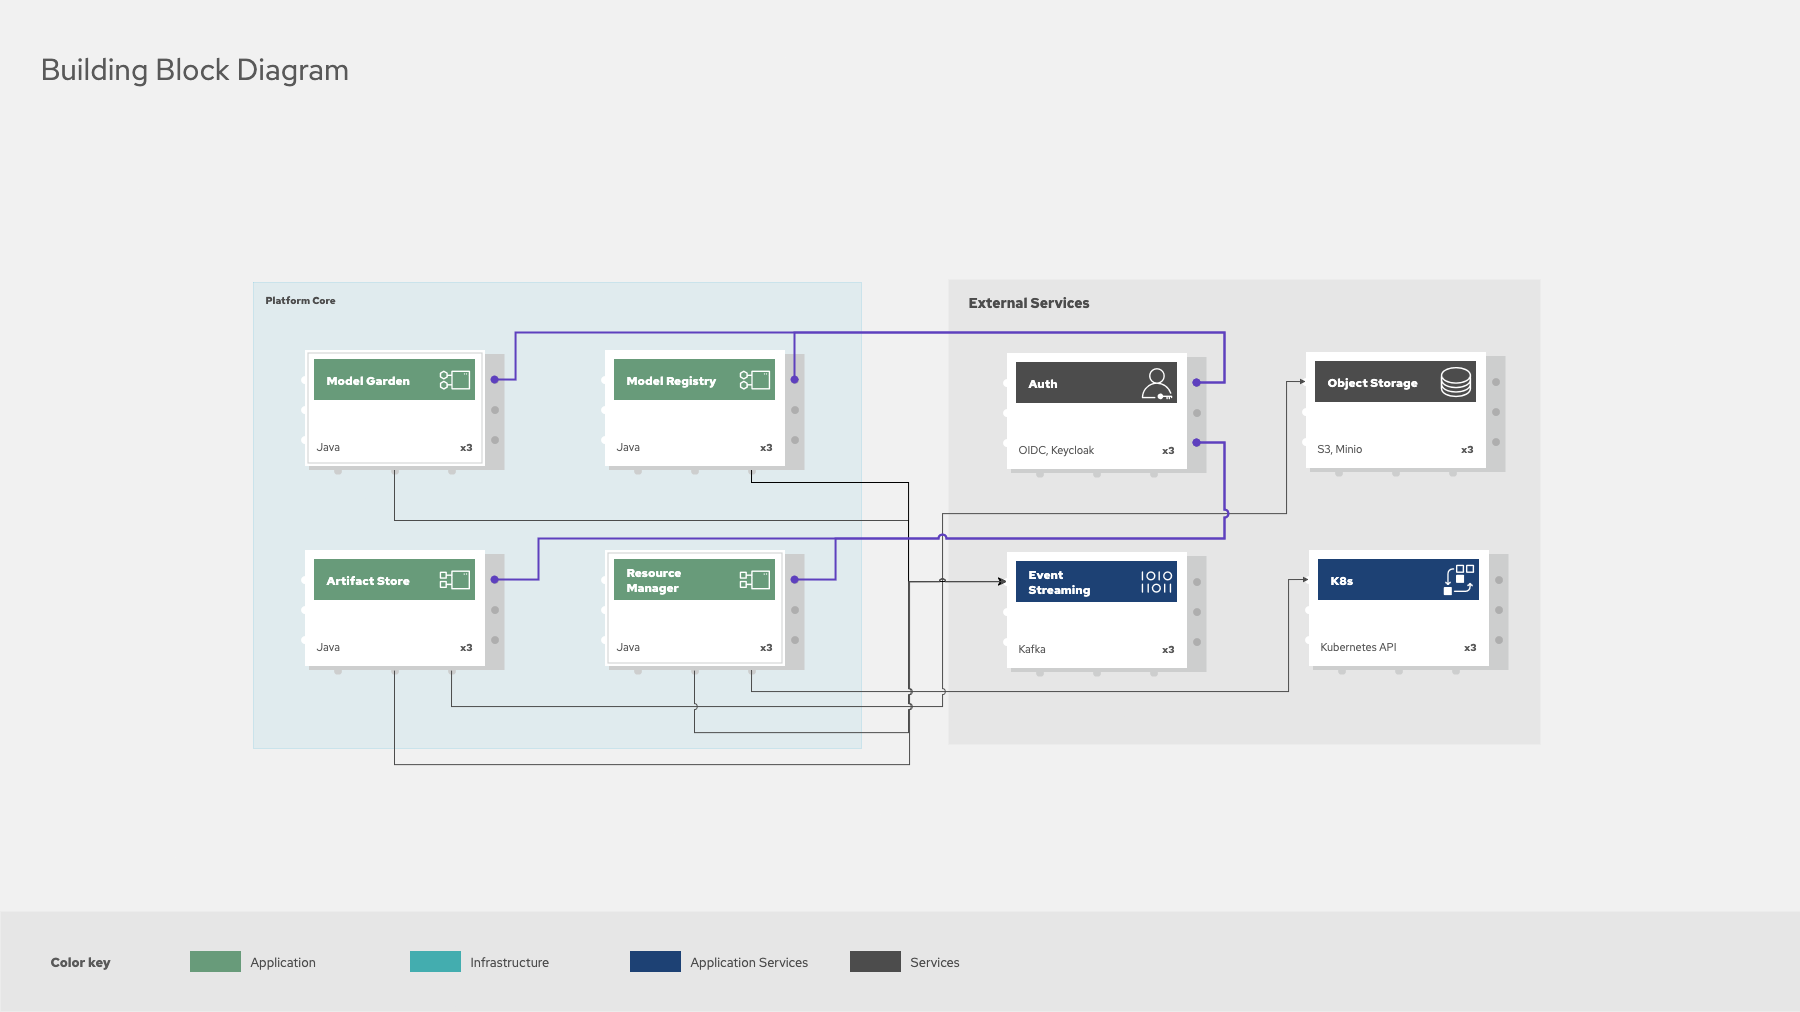
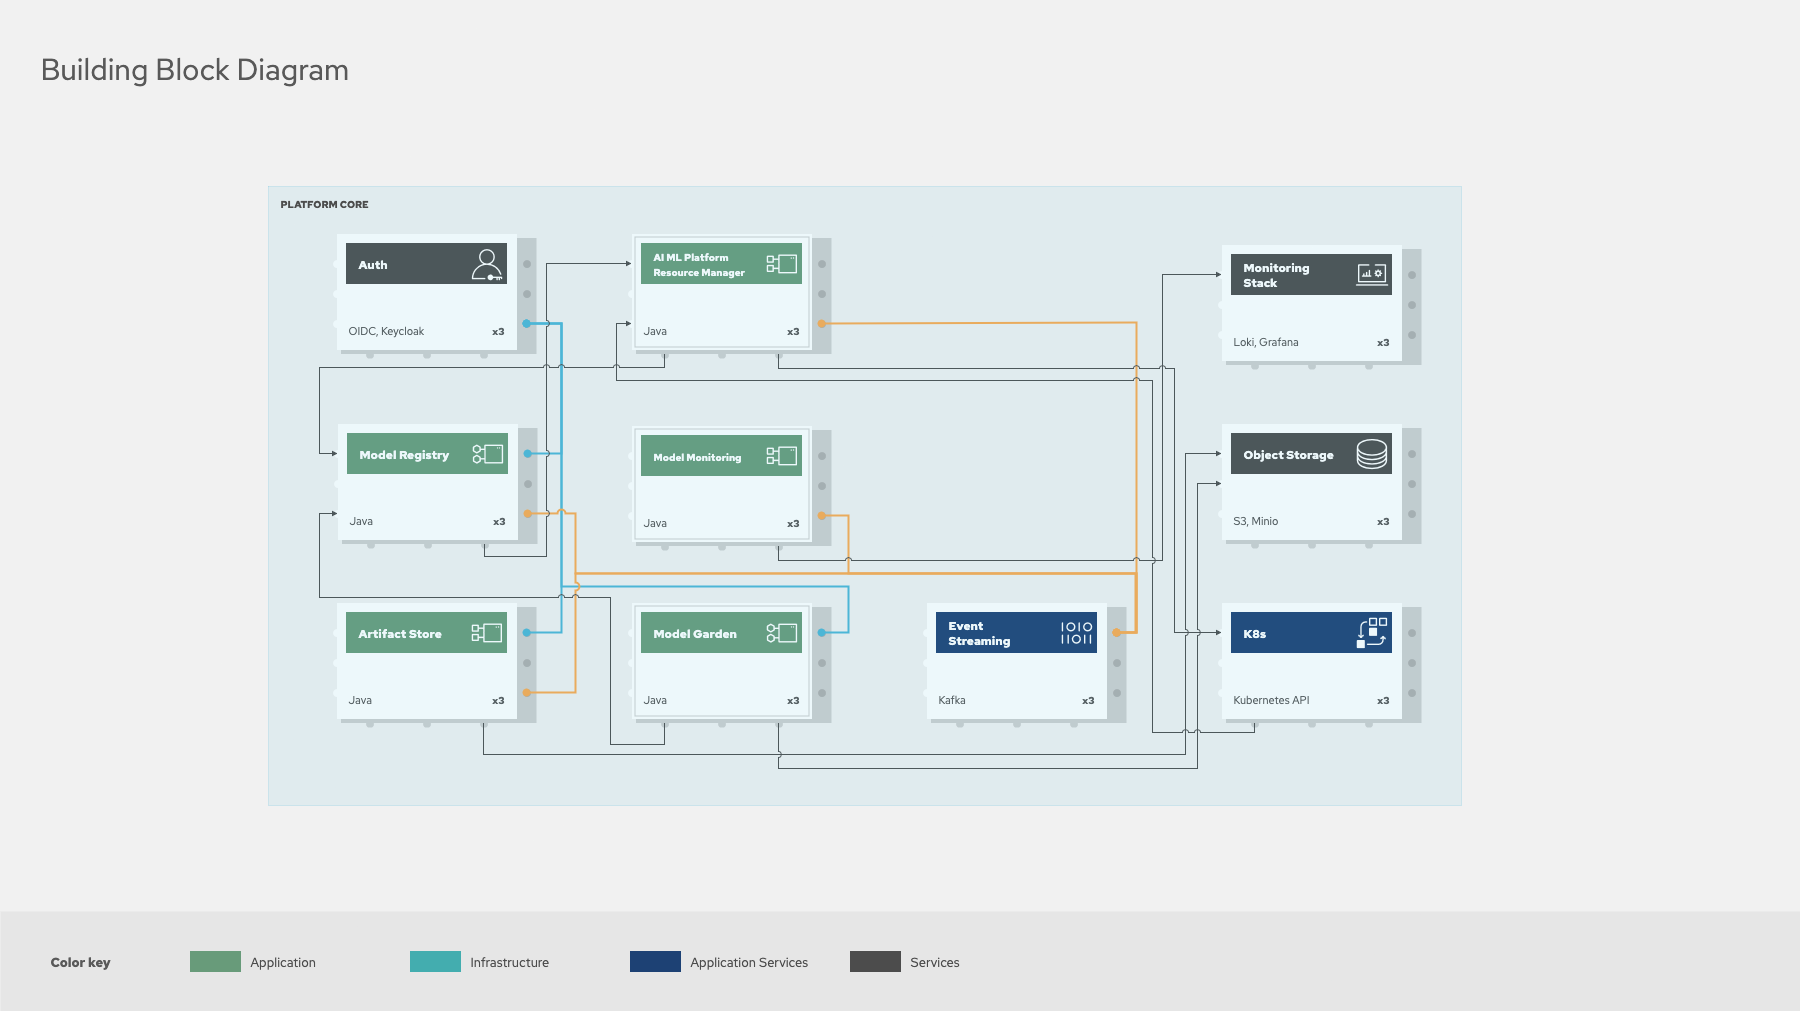
upd

Changed region(s): [[0.1556, 0.184, 0.84, 0.7666]]

diff --git a/004. Building Block View.md b/004. Building Block View.md
@@ -2,6 +2,12 @@
 
 Данный раздел описывает статическую структуру системы через основные компоненты (строительные блоки), ключевые сущности данных и их взаимосвязи.
 
+#### 4.1.  Логическая схема платформы искусственного интеллекта 
+
+На следующей диаграмме представлена логическая схема платформы искусственного интеллекта, которая демонстрирует архитектуру системы для разработки, управления и эксплуатации машинного обучения (ML) моделей.
+
+![[Logical Diagram.png]]
+
 #### **4.1. Высокоуровневая диаграмма компонентов**
 
 На следующей диаграмме показаны ключевые микросервисы (строительные блоки) платформы и их взаимодействие.
@@ -199,47 +205,96 @@ erDiagram
   * **`EndpointEntity`**: Определяет эндпоинт, который служит точкой входа для инференс-запросов. Он содержит информацию о выделенных ресурсах.
   * **`DeployedModel`**: Связующая таблица, которая позволяет привязать одну или несколько версий модели к одному эндпоинту. Это делает возможными сценарии вроде **канареечных релизов**, когда трафик распределяется между разными версиями.
 
-#### **4.3. Диаграмма потока событий (Event Flow Diagram)**
+#### **4.3. Диаграмма событий (Event Flow Diagram)**
 
-На следующей диаграмме показаны ключевые события системы и их поток между компонентами:
+##### 4.3.1. Иерархия событий (Event Taxonomy)
+
+На следующей диаграмме показаны классификация и наследование событий от базового.
 ```mermaid
-flowchart
-    subgraph EventFlow[Поток событий платформы]
-        direction TB
-        
-        subgraph Producers[Производители событий]
-            direction LR
-            P1[Artifact Store Service]
-            P2[Model Registry Service]
-        end
+flowchart TD
+    %% Корень
+    BaseEvent[Base Event] --> JobEvents[Job Events]
+    BaseEvent --> ResourceEvents[Resource Events]
 
-        subgraph Topics[Топики Kafka]
-            direction TB
-            T1[📊 job-events]
-            T2[⚡ resource-events]
-        end
+    %% Job Events и их типы
+    JobEvents --> RegisterUserModelVersionEvent[RegisterUserModelVersionEvent]
+    JobEvents --> CopyFileEvent[CopyFileEvent]
+    JobEvents --> DeleteFileEvent[DeleteFileEvent]
+    JobEvents --> RegistrationModelVersionSucceedEvent[RegistrationModelVersionSucceedEvent]
+    JobEvents --> RegistrationModelVersionFailedEvent[RegistrationModelVersionFailedEvent]
 
-        subgraph Consumers[Потребители событий]
-            direction LR
-            C1[Model Registry Service]
-            C2[Resource Manager Service]
-            C3[Job Worker Service]
-            C4[Monitoring Service]
-        end
+    %% Resource Events и их типы
+    ResourceEvents --> CreateInferenceServiceEvent[CreateInferenceServiceEvent]
 
-        P1 -- RegisterUserModelVersionEvent --> T1
-        P2 -- CopyFileEvent, DeleteFileEvent --> T1
-        P2 -- CreateInferenceServiceEvent --> T2
-        
-        T1 --> C3
-        C3 -- RegistrationModelVersionSucceedEvent --> T1
-        C3 -- RegistrationModelVersionFailedEvent --> T1
-        
-        T1 --> C1
-        T2 --> C2
-        T2 --> C4
-    end
+    %% Стили
+    style BaseEvent fill:#e6f7ff,stroke:#007acc,stroke-width:2px
+    style JobEvents fill:#d0f5e8,stroke:#009688,stroke-width:2px
+    style ResourceEvents fill:#f9d8d8,stroke:#d9534f,stroke-width:2px
+    style RegisterUserModelVersionEvent fill:#ffffff,stroke:#333,stroke-dasharray:5
+    style RegistrationModelVersionSucceedEvent fill:#e6ffe6,stroke:#2e8b57
+    style RegistrationModelVersionFailedEvent fill:#fff5f5,stroke:#d9534f
+
+    %% Подпись
+    classDef eventClass fill:#fff,stroke:#000,stroke-width:1px,font-size:14px;
+    class RegisterUserModelVersionEvent,RegistrationModelVersionSucceedEvent,RegistrationModelVersionFailedEvent,CreateInferenceServiceEvent,CopyFileEvent,DeleteFileEvent eventClass
+
+    click BaseEvent "https://example.com/events" "Base Event"
+    click JobEvents "https://example.com/events/job" "Job Events"
+    click ResourceEvents "https://example.com/events/resource" "Resource Events"
 ```
+
+
+##### 4.3.2. Поток событий через Kafka (Event Flow Architecture)
+
+На следующей диаграмме показаны ключевые события системы, кто производит, куда идёт, кто потребляет.
+```mermaid
+flowchart LR
+    %% Группировка
+    subgraph Producers[Производители событий]
+        direction TB
+        P1[Artifact Store Service]
+        P2[Model Registry Service]
+    end
+
+    subgraph Topics[Kafka Topics]
+        direction TB
+        T1[job-events]
+        T2[resource-events]
+    end
+
+    subgraph Consumers[Потребители событий]
+        direction TB
+        C3[Job Worker Service]
+        C1[Model Registry Service]
+        C2[Resource Manager Service]
+        C4[Monitoring Service]
+    end
+
+    %% Связи
+    P1 -- "RegisterUserModelVersionEvent<br>CopyFileEvent<br>DeleteFileEvent" --> T1
+    P2 -- "CreateInferenceServiceEvent" --> T2
+
+    T1 --> C3
+    T1 --> C1
+    T2 --> C2
+    T2 --> C4
+
+    %% Обратная связь от Job Worker
+    C3 -- "RegistrationModelVersionSucceedEvent<br>RegistrationModelVersionFailedEvent" --> T1
+    T1 -.-> C1
+
+    %% Стили
+    style Producers fill:#f0f8ff,stroke:#4a90e2,stroke-width:2px
+    style Topics fill:#fff8e1,stroke:#ffb300,stroke-width:2px
+    style Consumers fill:#f0fff0,stroke:#4caf50,stroke-width:2px
+    style T1 fill:#b3d9ff,stroke:#007acc
+    style T2 fill:#ffe6e6,stroke:#d9534f
+
+    %% Подсказки
+    classDef serviceClass fill:#ffffff,stroke:#666,stroke-width:1.5px,font-size:14px
+    class P1,P2,C1,C2,C3,C4 serviceClass
+```
+
 
 #### **4.4. Описание строительных блоков (Компонентов)**
 

diff --git a/002. Context and Scope.md b/002. Context and Scope.md
@@ -9,6 +9,7 @@
 На диаграмме ниже представлен высокоуровневый контекст системы и ее взаимодействие с внешними акторами и системами.
 
 ![[Context diagram.png]]
+
 #### **2.2. Описание акторов**
 
 | Актор                                                  | Описание                                                                                                     | Интерфейс взаимодействия             |
@@ -16,7 +17,6 @@
 | **Конечный пользователь (Data Scientist/ML Engineer)** | Основной потребитель услуг платформы. Создает эксперименты, обучает и развертывает модели.                   | Веб-интерфейс (GUI), REST API        |
 | **Системный администратор**                            | Управляет платформой: настройка, добавление предустановленных моделей в Model Garden, разрешение инцидентов. | REST API, Административный интерфейс |
 | **Стороннее приложение/Сервис**                        | Внешняя система, потребляющая прогнозы от развернутых моделей в продакшене.                                  | REST API (Endpoint для инференса)    |
-
 
 #### **2.3. Описание внешних систем**
 
@@ -28,6 +28,7 @@
 | **Стек мониторинга (Prometheus, Grafana, Loki)** | Обеспечивает полную наблюдаемость: сбор метрик (Prometheus), визуализацию (Grafana) и centralized logging (Loki).        | **Асинхронное**. Сервисы платформы экспортируют метрики в Prometheus и логи в Loki.                                 |
 | **GitOps (GitLab CI/CD & Flux 2)**               | Инфраструктура для автоматизации сборки, тестирования и развертывания самой платформы по методологии GitOps.             | **Асинхронное**. Изменения в Git-репозитории автоматически запускают процессы CI/CD и синхронизацию в кластере.     |
 #### **2.4. Важные допущения**
+
 1.  Перечисленные внешние системы (Keycloak, Kubernetes, S3) уже развернуты, настроены и доступны для использования платформой.
 2.  Доступ к этим системам обладает достаточной надежностью и производительностью, чтобы не становиться узким местом для работы AI Platform.
 3.  Администраторы внешних систем обеспечивают их поддержку и соответствие SLA.

diff --git a/001. Introduction and Goals.md b/001. Introduction and Goals.md
@@ -26,18 +26,19 @@
 * Изначально платформа развертывается в он-премис окружении, что накладывает ограничения на использование managed-сервисов внутри провайдерова.
 
 #### **1.3 Целевая аудитория**
-* **Инженеры-исследователи (Data Scientists, ML Engineers)**: Основные пользователи, создающие, обучающие и развертывающие модели. Управляют тонкой настройкой, контролем над процессом и доступом к вычислительным ресурсам.
+* **Инженеры-исследователи (Data Scientists, ML Engineers)**: Основные пользователи, создающие, обучающие и развертывающие модели. Управляют тонкой настройкой, контролем над процессом и доступом к вычислительным ресурсам. *Не являются администраторами облака, и не пользователи консоли, не имеют отношения к пользователям, которые администрируют облачную инфраструктуру.*
 * **Администраторы платформы**: Отвечают за развертывание, поддержку, доступность и безопасность платформы в целом.
 * **Разработчики платформы**: Команда, которая развивает и поддерживает саму платформу, добавляя новый функционал и обеспечивая ее интеграцию с другими системами компании.
 
 #### **1.4 Технологический стек (High-Level)**
+* **Тип сервиса** : Hybrid Paas
 * **Бэкенд-сервисы**: Java (микросервисы, Quarkus Mutiny Native Applications)
 * **ML/Data Engineering**: Python (PyTorch, TensorFlow, Scikit-learn, Jupyter)
-* **Фронтенд**: Node.js
+* **Фронтенд**: React.js
 * **Брокер сообщений**: Apache Kafka (для Event Sourcing и асинхронной коммуникации)
 * **Хранилище артефактов и данных**: S3-совместимое объектное хранилище (MinIO)
 * **Хранилище метаданных**: Файловое хранилище на основе S3 (для метаданных тренировок, моделей, датасетов)
 * **Аутентификация/Авторизация**: Keycloak (OAuth 2.0 / OIDC)
 * **Управление секретами**: OpenBao
 * **Мониторинг и метрики**: OpenTelemetry, Grafana + Prometheus
-* **Оркестрация контейнеров**: Kubernetes (on-premise)
+* **Оркестрация контейнеров**: Kubernetes (on-premise) 

diff --git a/006. Развертывание и эксплуатация (draft).md b/006. Развертывание и эксплуатация (draft).md
@@ -2,6 +2,9 @@
 
 Данный раздел описывает требования к инфраструктуре, процесс развертывания системы, а также аспекты её эксплуатации и мониторинга.
 
+%% TODO %%
+Добавить создание системной учетной записи под которой будут входить администраторы заказчика, чтобы  вносить корректировки (например, создавать пользователей)
+
 #### **6.1. Требования к инфраструктуре**
 
 Система развертывается on-premise на выделенном кластере Kubernetes. Ниже приведены минимальные и рекомендуемые требования.
